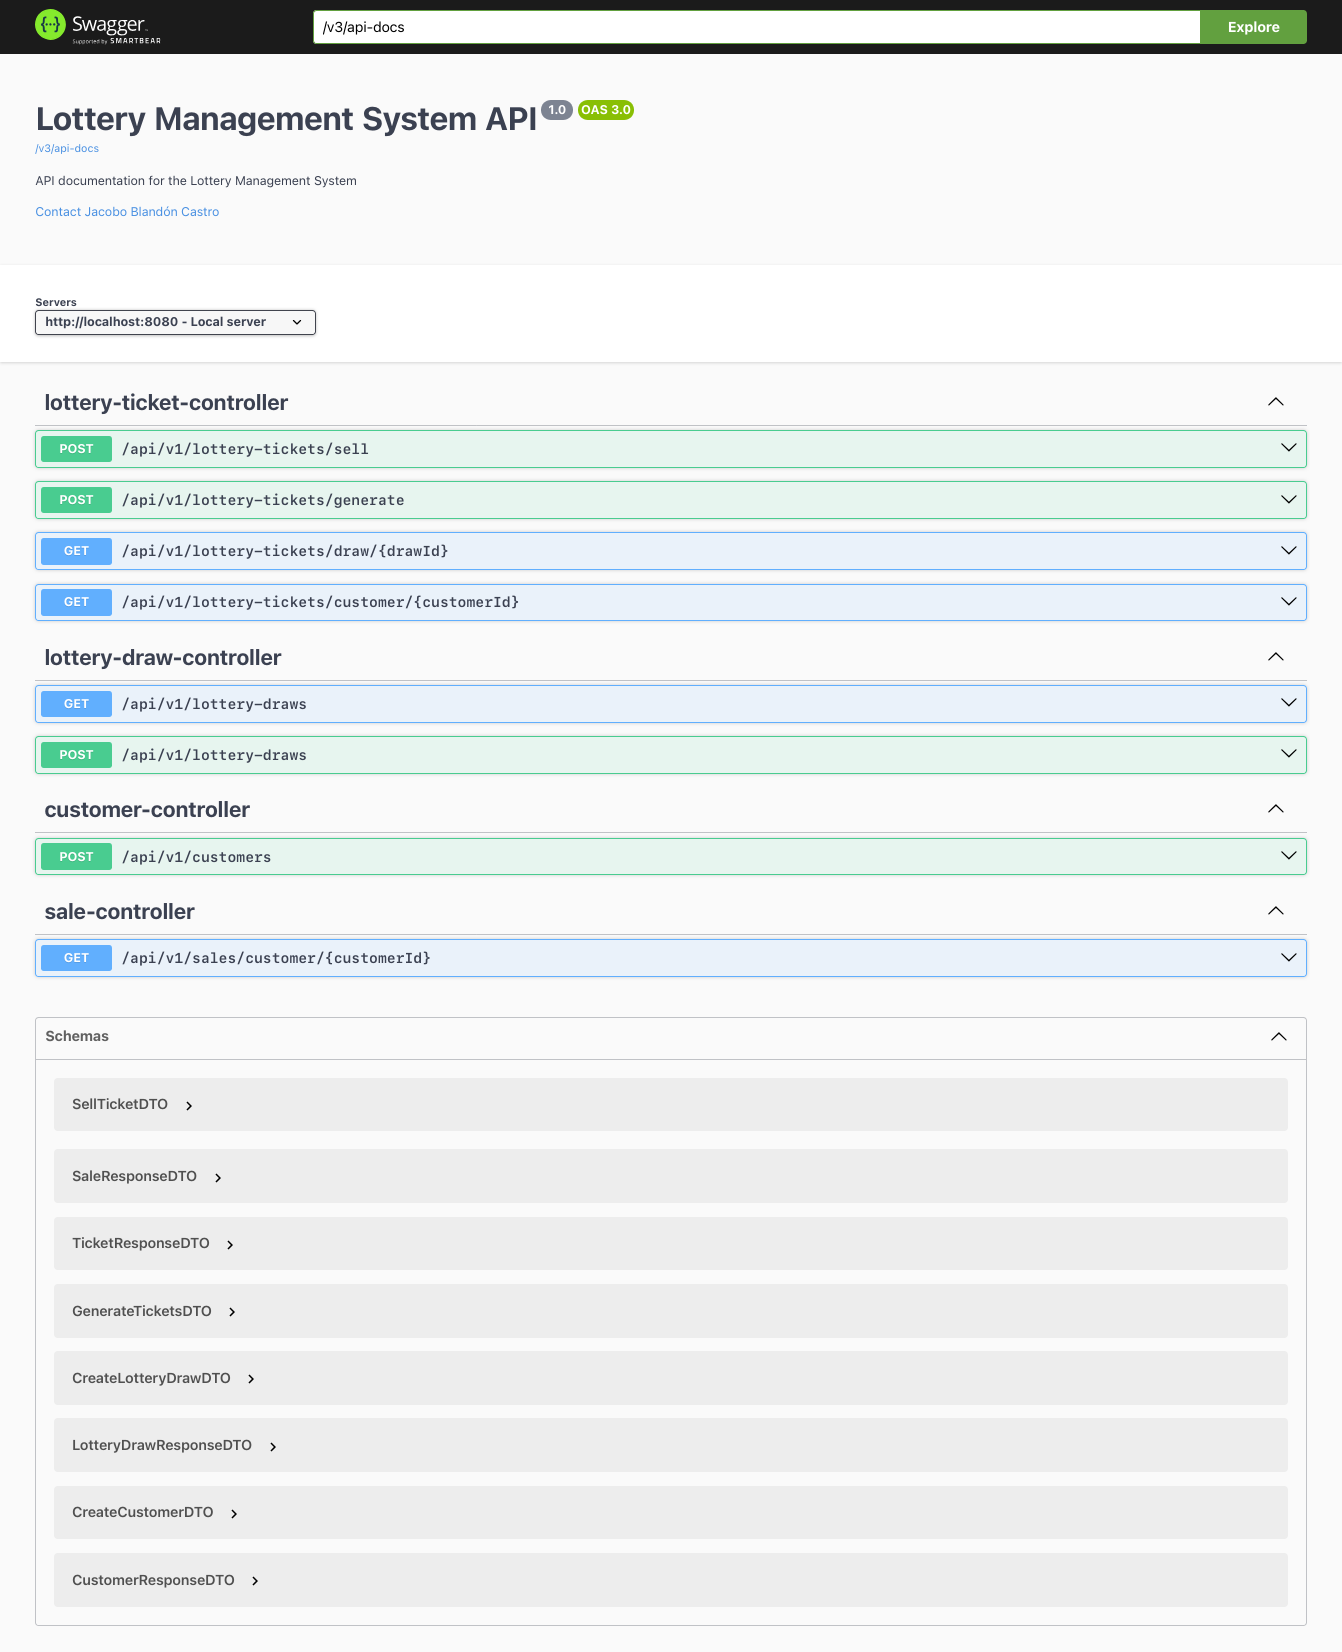
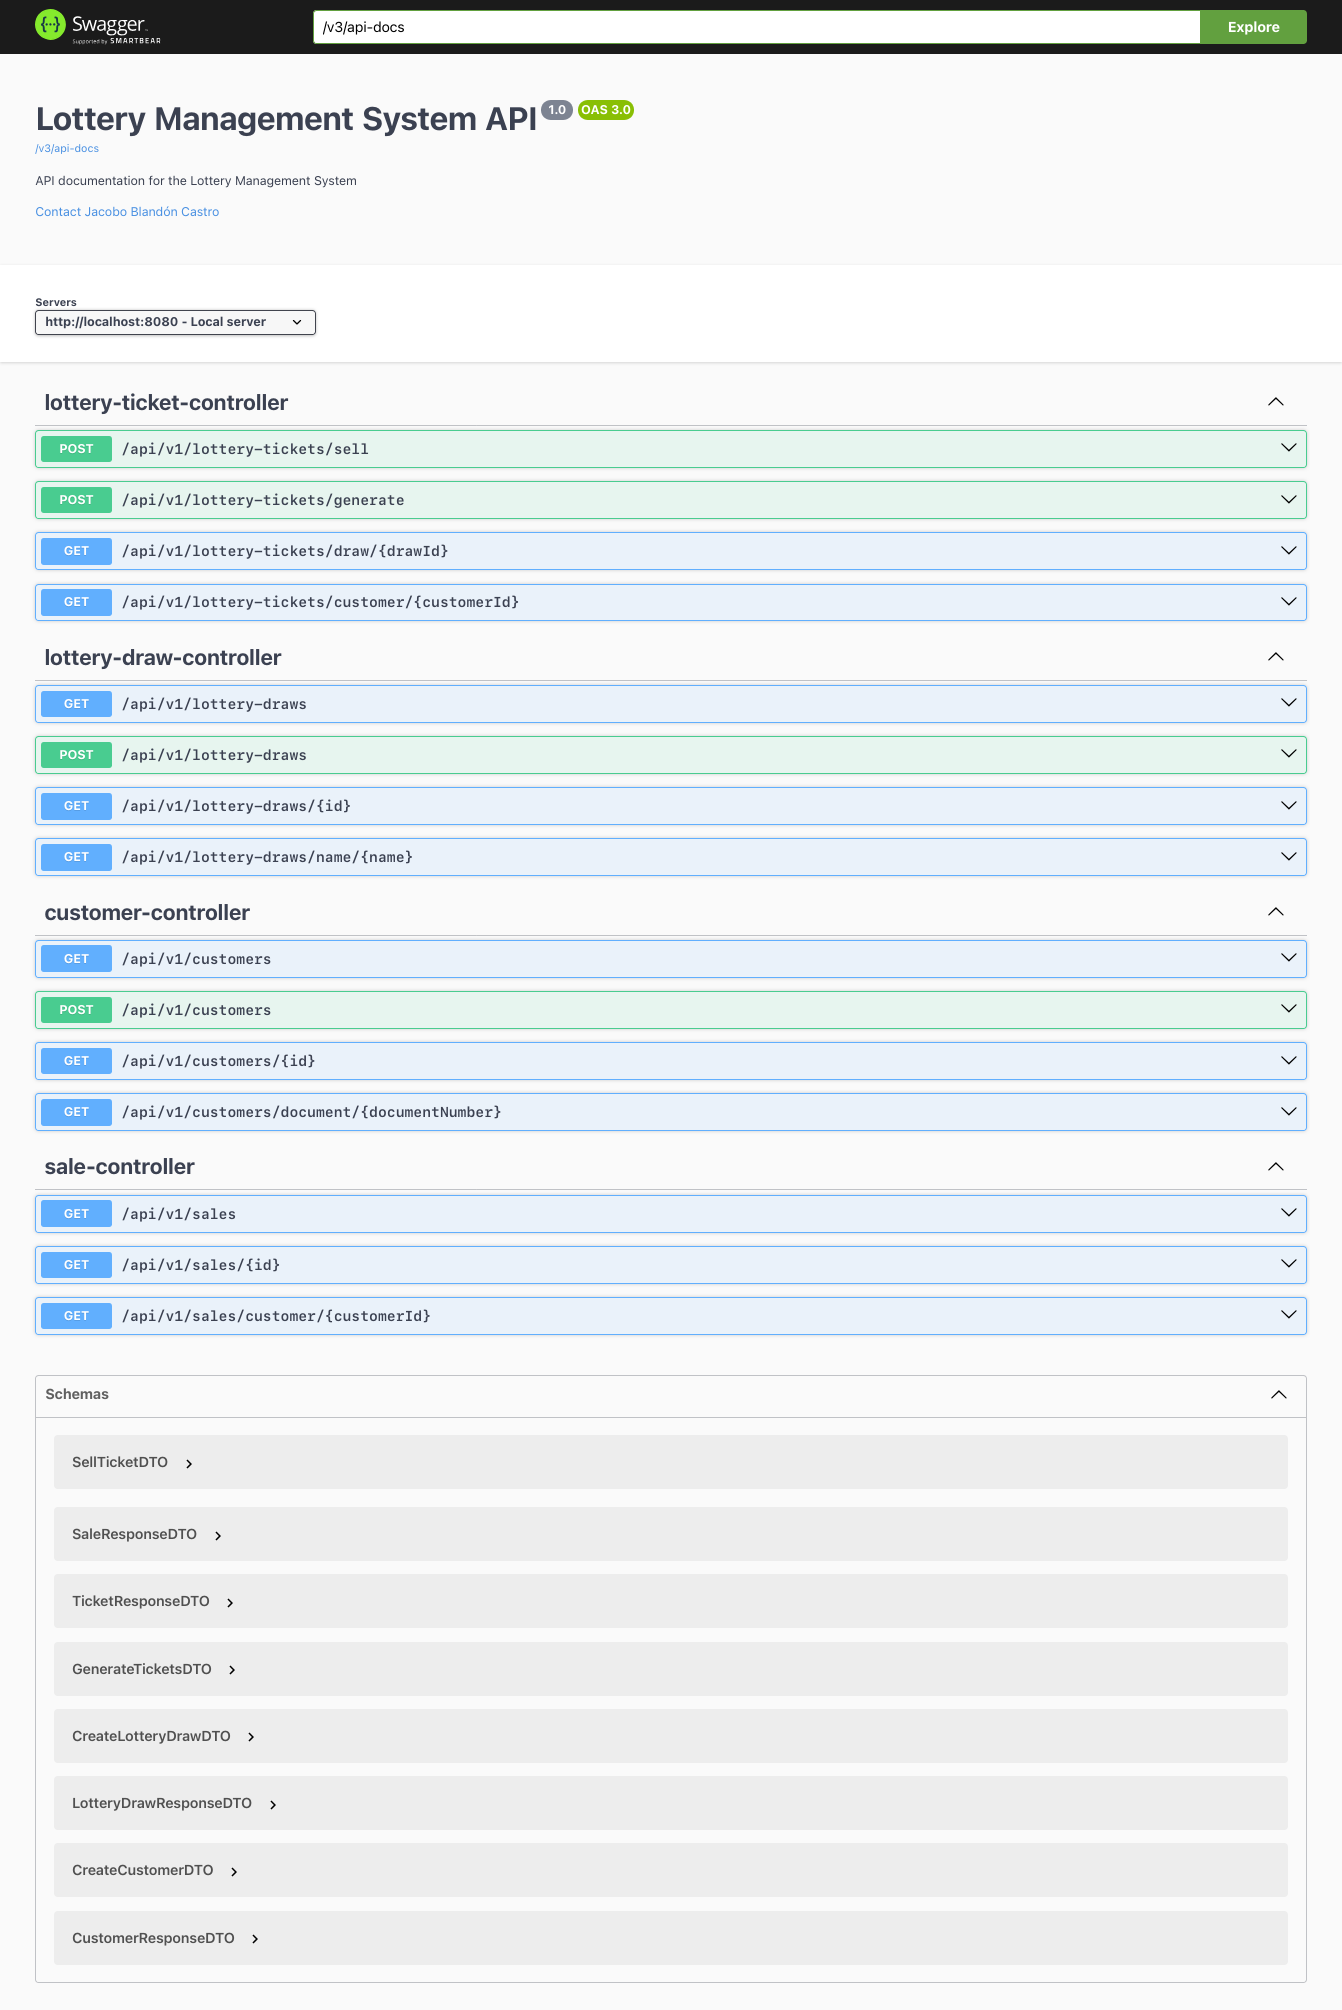
docs: move API docs to Swagger UI
Remove endpoint listing from README.md in favor of interactive Swagger
UI
documentation. Update Swagger UI screenshot to reflect current API.

Changed region(s): [[0.0, 0.0, 1.0, 0.71], [0.0611, 0.71, 0.1833, 0.9879]]

diff --git a/backend/README.md b/backend/README.md
@@ -117,15 +117,6 @@ También se encuentra el archivo `schema-demo.sql` que define el esquema de la b
 
 ## Endpoints Disponibles
 
-- `POST /api/v1/customers` - Crear un nuevo cliente.
-- `POST /api/v1/lottery-draws` - Crear un nuevo sorteo de lotería.
-- `GET /api/v1/lottery-draws` - Listar todos los sorteos de lotería.
-- `POST /api/v1/lottery-tickets/generate` - Generar billetes para un sorteo específico.
-- `POST /api/v1/lottery-tickets/sell` - Vender billetes a un cliente.
-- `GET /api/v1/lottery-tickets/draw/{drawId}` - Listar billetes de un sorteo específico.
-- `GET /api/v1/lottery-tickets/customer/{customerId}` - Listar billetes vendidos a un cliente específico. 
-- `GET /api/v1/sales/customer/{customerId}` - Consultar ventas realizadas a un cliente específico.
-
 Para consultar los endpoints disponibles y su documentación, puedes acceder a Swagger UI en: `http://localhost:8080/swagger-ui.html` después de iniciar la aplicación.
 
 Aquí encontrarás una lista completa de los endpoints REST, junto con detalles sobre los parámetros de entrada, respuestas esperadas y posibles códigos de estado HTTP.
